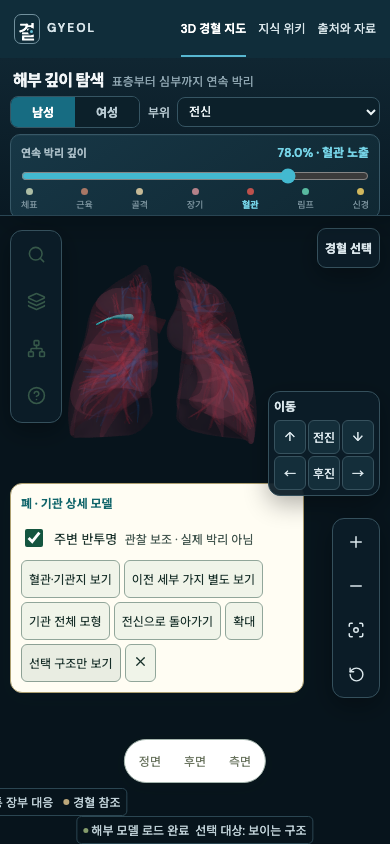
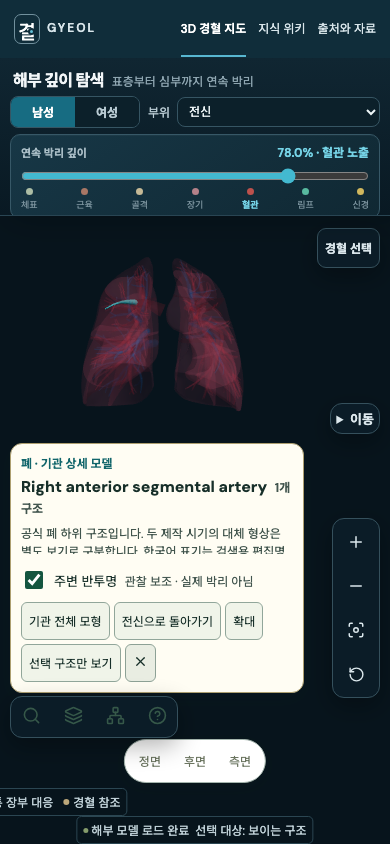
Keep selected lung names and movement controls readable on small screens

diff --git a/src/App.tsx b/src/App.tsx
@@ -636,14 +636,21 @@ function AtlasPage({
   const selectedGroup = state.detail?.id || selectedAnatomy?.group;
   const selectedOrgan = structureGroups.find(group => group.id === selectedGroup && group.sex === state.sex);
   const selectedComposite = compositeGroups.find(group => group.id === selectedGroup && group.sex === state.sex);
+  const selectedLungPart = Boolean(state.sex === "male" && selectedAnatomy && maleLungViews.some(view => view.id === selectedGroup));
   const fullLungDetail = Boolean(state.sex === "male" && state.detail && state.selection?.kind === "bundle"
     && maleLungViews.some(view => view.id === state.detail!.id && view.ids.length === state.selection!.ids.length
       && view.ids.every(id => state.selection!.ids.includes(id))));
+  const lungViewOptions = state.sex === "male" && maleLungViews.some(view => view.id === selectedGroup)
+    ? maleLungViews.filter(view => view.id !== selectedGroup).map(view => <button key={view.id} onClick={() => selectFeatured(view)}>{view.id === "lung" ? "폐실질 함께 보기" : view.id === "lung-internal" ? "혈관·기관지 보기" : "이전 세부 가지 별도 보기"}</button>) : null;
   const fullCompositeDetail = Boolean(selectedComposite && state.detail && state.selection?.kind === "bundle"
     && state.selection.ids.length === selectedComposite.ids.length
     && selectedComposite.ids.every(id => state.selection!.ids.includes(id)));
   const detailParts = selectedOrgan ? structuresForSex(state.sex).filter(item => selectedOrgan.ids.includes(item.id))
     .sort((a,b) => selectedOrgan.ids.indexOf(a.id)-selectedOrgan.ids.indexOf(b.id)) : [];
+  const movementButtons = <div>{([
+    ['move-up', '위로 이동', '↑'], ['move-forward', '앞으로 이동', '전진'], ['move-down', '아래로 이동', '↓'],
+    ['move-left', '왼쪽으로 이동', '←'], ['move-backward', '뒤로 이동', '후진'], ['move-right', '오른쪽으로 이동', '→'],
+  ] as const).map(([kind, label, text]) => <button key={kind} aria-label={label} title={label} onClick={() => camera(kind)}>{text}</button>)}</div>;
   return (
     <main
       className="anatomy-workspace"
@@ -651,6 +658,7 @@ function AtlasPage({
       aria-label="인체 구조 탐색"
       data-panel={panel || "none"}
       data-detail={Boolean(state.detail)}
+      data-lung-part={selectedLungPart}
       data-selection={Boolean(state.selection)}
       onKeyDownCapture={(event) => {
         if (!(event.target instanceof HTMLCanvasElement) || !event.altKey || !["ArrowUp", "ArrowDown"].includes(event.key)) return;
@@ -1152,8 +1160,8 @@ function AtlasPage({
         </div>
       )}
       {state.selection && (
-        <section className="selection-card" data-detail={Boolean(state.detail)} data-selection="true" aria-label="선택 구조 조작">
-          <div>
+        <section className="selection-card" data-detail={Boolean(state.detail)} data-selection="true" data-lung-part={selectedLungPart} aria-label="선택 구조 조작">
+          <div key={selectedLungPart ? selectionKey : "selection-content"}>
             <span className={`selection-kind ${state.selection.kind}`}>
               {state.comparison ? "전통 장부 비교" : state.detail ? `${state.detail.name} · ${selectedComposite ? "구조" : "기관"} 상세 모델` : state.selection.kind === "bundle" ? "구조 묶음" : "선택 구조"}
             </span>
@@ -1175,8 +1183,9 @@ function AtlasPage({
               <p className="selection-description">{selectedComposite.description}</p>
             </details>}
             {state.sex === "male" && maleLungViews.some(view => view.id === selectedGroup) && <details className="anatomy-source-details" data-lung-provenance>
-              <summary>폐 자료·원본 묶음 구분</summary>
+              <summary>{fullLungDetail ? "폐 자료·원본 묶음 구분" : "폐 보기 변경·원본 구분"}</summary>
               <p className="selection-description">BodyParts3D 4.3 공식 원본입니다. 기본 보기는 2014 표기 원본의 폐실질 18조각과 혈관·기관지 267조각입니다. 이전 세부 가지 278조각은 2011–2012 표기 원본으로, 겹치는 대체 형상과 일부 위치 차이가 있어 별도로 표시합니다. 연도는 원본 묶음명 기준입니다. 공식 목록에서 제외된 이전 혈관 2조각은 수록하지 않습니다. 미세 구조 전체나 임상적 위치 검증을 뜻하지 않습니다.</p>
+              {!fullLungDetail && <div className="selection-actions">{lungViewOptions}</div>}
             </details>}
             {state.sex === "female" && selectedOrgan?.id === "brain" && <div data-brain-provenance>
               <p className="selection-description">뇌 묶음: Allen 참조 282개 + Visible Human 시신경교차 1개 · Allen 좌우 선택 연결 교정 · 위치 검증 미완료</p>
@@ -1207,7 +1216,7 @@ function AtlasPage({
               <span>주변 반투명 <small id="selection-context-help">관찰 보조 · 실제 박리 아님</small></span>
             </label>}
             {sourceKey === "female-detail" && state.detail?.id !== "abdomen-ct" && <button aria-label="같은 여성 CT의 주변 기관 보기" onClick={() => selectFeatured(featuredAnatomy.find(item => item.id === "abdomen-ct")!)}>주변 기관 함께 보기</button>}
-            {state.sex === "male" && maleLungViews.some(view => view.id === selectedGroup) && maleLungViews.filter(view => view.id !== selectedGroup).map(view => <button key={view.id} onClick={() => selectFeatured(view)}>{view.id === "lung" ? "폐실질 함께 보기" : view.id === "lung-internal" ? "혈관·기관지 보기" : "이전 세부 가지 별도 보기"}</button>)}
+            {fullLungDetail && lungViewOptions}
             {!fullCompositeDetail && !fullLungDetail && selectedOrgan && !(sourceKey === "female-detail" && selectedOrgan.ids.length === 1 && state.detail) && <button onClick={() => selectFeatured(selectedOrgan)}>{selectedComposite ? `${selectedComposite.name} ${state.detail ? "전체 모형" : "전체 상세 보기"}` : state.detail ? "기관 전체 모형" : "기관 상세 보기"}</button>}
             {state.detail && <button onClick={() => { dispatch({ type: "detail-close" }); requestAnimationFrame(() => camera("fit")); }}>전신으로 돌아가기</button>}
             <button
@@ -1261,13 +1270,11 @@ function AtlasPage({
           경로 아님
         </p>
       )}
-      <div className="movement-pad" aria-label="화면 이동">
-        <span>이동 <small>WASD · Q/E</small></span>
-        <div>{([
-          ['move-up', '위로 이동', '↑'], ['move-forward', '앞으로 이동', '전진'], ['move-down', '아래로 이동', '↓'],
-          ['move-left', '왼쪽으로 이동', '←'], ['move-backward', '뒤로 이동', '후진'], ['move-right', '오른쪽으로 이동', '→'],
-        ] as const).map(([kind, label, text]) => <button key={kind} aria-label={label} title={label} onClick={() => camera(kind)}>{text}</button>)}</div>
-      </div>
+      {selectedLungPart ? <details className="movement-pad" aria-label="화면 이동">
+        <summary>이동 <small>WASD · Q/E</small></summary>{movementButtons}
+      </details> : <div className="movement-pad" aria-label="화면 이동">
+        <span>이동 <small>WASD · Q/E</small></span>{movementButtons}
+      </div>}
       <div className="navigation-hint">WASD 이동 · 휠 확대/축소 · Alt/⌥+휠 박리</div>
       <div className="view-tools">
         <button aria-label="확대" onClick={() => camera("zoomIn")}>

diff --git a/tests/browser/detail-context.spec.ts b/tests/browser/detail-context.spec.ts
@@ -74,6 +74,45 @@ for(const sample of samples)test(`${sample.sex} ${sample.group.id}: restoring de
   await page.getByRole('button',{name:'전체 구조 보기',exact:true}).click();await ready(page);await expect.poll(visible).toEqual(expected);
   await expect.poll(frameError).toBeLessThan(.001);
   await expect(page.getByRole('button',{name:'전신으로 돌아가기',exact:true})).toBeInViewport();
+  if(sample.group.id==='lung'){
+    const title=page.locator('.selection-card > div:first-child > strong');
+    const inspectTitle=()=>title.evaluate(el=>{
+      const r=el.getBoundingClientRect(),clip=el.parentElement!.getBoundingClientRect();
+      const card=el.closest('.selection-card')!.getBoundingClientRect(),pad=document.querySelector('.movement-pad')!.getBoundingClientRect();
+      const tools=document.querySelector('.floating-tools')!.getBoundingClientRect(),point=document.querySelector('.floating-point')!.getBoundingClientRect();
+      const gap=(a:DOMRect,b:DOMRect)=>Math.max(a.top-b.bottom,b.top-a.bottom,a.left-b.right,b.left-a.right);
+      return {top:r.top-clip.top,bottom:clip.bottom-r.bottom,padClearance:gap(card,pad),toolsClearance:gap(card,tools),pointClearance:gap(pad,point)};
+    });
+    for(const width of [390,360]){
+      await page.setViewportSize({width,height:width===390?844:740});
+      await expect.poll(async()=>(await inspectTitle()).top).toBeGreaterThanOrEqual(-.5);
+      await expect.poll(async()=>(await inspectTitle()).bottom).toBeGreaterThanOrEqual(-.5);
+      await expect.poll(async()=>(await inspectTitle()).padClearance).toBeGreaterThan(4);
+      await expect.poll(async()=>(await inspectTitle()).toolsClearance).toBeGreaterThan(0);
+      await expect.poll(async()=>(await inspectTitle()).pointClearance).toBeGreaterThan(0);
+      const movement=page.locator('.movement-pad summary');
+      await movement.focus();await page.keyboard.press('Enter');
+      await expect(page.locator('.movement-pad')).toHaveAttribute('open','');
+      await expect(page.locator('.floating-point')).toBeHidden();
+      await expect(page.getByRole('button',{name:'위로 이동',exact:true})).toBeInViewport();
+      const beforeMove=(await snapshot(page)).camera.position[1];
+      await page.getByRole('button',{name:'위로 이동',exact:true}).click();
+      await expect.poll(async()=>(await snapshot(page)).camera.position[1]).toBeGreaterThan(beforeMove);
+      const contrast=await page.getByRole('button',{name:'위로 이동',exact:true}).evaluate(el=>{
+        const style=getComputedStyle(el),lum=(s:string)=>s.match(/[\d.]+/g)!.slice(0,3).map(Number).map(x=>{x/=255;return x<=.04045?x/12.92:((x+.055)/1.055)**2.4;}).reduce((sum,x,i)=>sum+x*[.2126,.7152,.0722][i],0);
+        const a=lum(style.color),b=lum(style.backgroundColor);return (Math.max(a,b)+.05)/(Math.min(a,b)+.05);
+      });
+      expect(contrast).toBeGreaterThanOrEqual(4.5);
+      await expect.poll(async()=>(await inspectTitle()).padClearance).toBeGreaterThan(4);
+      if(width===360)await page.screenshot({path:'docs/anatomy-alignment/detail-context-male-lung-small-mobile-movement.png'});
+      await movement.click();await expect(page.locator('.floating-point')).toBeVisible();
+      await page.locator('.view-presets').getByRole('button',{name:'정면',exact:true}).click();
+      await expect.poll(async()=>(await projection()).cardClearance).toBeGreaterThan(0);
+      if(width===360)await page.screenshot({path:'docs/anatomy-alignment/detail-context-male-lung-small-mobile.png'});
+    }
+    await page.setViewportSize({width:390,height:844});
+    await expect.poll(async()=>(await projection()).cardClearance).toBeGreaterThan(0);
+  }
   await page.screenshot({path:`docs/anatomy-alignment/detail-context-${sample.sex}-${sample.group.id}-mobile.png`});
   expect(await geometry(page,url,sample.group.ids)).toEqual(shape);
   await page.getByLabel('연속 해부 박리 깊이').fill('50.5');await ready(page);

diff --git a/src/workspace.css b/src/workspace.css
@@ -1306,8 +1306,21 @@ body:has(.anatomy-workspace) .site-footer {
   .anatomy-workspace[data-selection="true"] .selection-actions { flex-shrink:0; }
 }
 .selection-actions { flex-wrap:wrap; }
+.movement-pad>summary { font-size:13px; font-weight:650; cursor:pointer; }
+.movement-pad[open]>summary { margin-bottom:5px; }
+.anatomy-workspace .movement-pad small { color:inherit; }
+.anatomy-workspace .movement-pad button:hover,
+.anatomy-workspace .movement-pad button:focus-visible { color:var(--ink); background:var(--surface-subtle); }
 @media(max-width:700px){
   .anatomy-workspace .selection-card { left:10px; width:calc(100% - 84px); max-height:210px; overflow:hidden; display:grid; grid-template-rows:minmax(0,1fr) auto; }
   .anatomy-workspace .selection-card>div:first-child { min-height:0; overflow:auto; }
   .organ-detail-parts>div { grid-template-columns:1fr; max-height:130px; }
+  /* Reserve a readable selected name above fixed actions; cap the card at
+     45% of the scene remaining below the mobile header and scope controls. */
+  .anatomy-workspace .selection-card[data-lung-part="true"] { max-height:min(250px,calc(45dvh - 97.2px)); }
+  .anatomy-workspace[data-lung-part="true"] .movement-pad { bottom:calc(min(250px,calc(45dvh - 97.2px)) + 160px); }
+  .anatomy-workspace[data-lung-part="true"] .floating-tools { top:auto; bottom:106px; left:10px; padding:0; gap:2px; flex-direction:row; }
+  .anatomy-workspace[data-lung-part="true"] .floating-tools button { width:40px; height:40px; }
+  .anatomy-workspace[data-lung-part="true"] .floating-tools .tool-name { left:0; bottom:46px; top:auto; }
+  .anatomy-workspace[data-lung-part="true"]:has(.movement-pad[open]) .floating-point { visibility:hidden; }
 }

diff --git a/tests/browser/lung-source.spec.ts b/tests/browser/lung-source.spec.ts
@@ -35,6 +35,8 @@ for(const mobile of [false,true])test(`lung source views remain separate and sel
   await page.locator('.organ-detail-parts button').nth(lung.ids.indexOf('BP4_FJ6595')).click();await check(['BP4_FJ6595']);
   await page.getByRole('button',{name:'전체 구조 보기',exact:true}).click();await check(lung.ids);
   expect((await snapshot(page)).selection.ids).toEqual(['BP4_FJ6595']);
+  await page.locator('[data-lung-provenance] summary').click();
+  await page.locator('[data-lung-provenance]').getByRole('button',{name:'혈관·기관지 보기',exact:true}).click();await check(internal);
   await page.getByLabel('연속 해부 박리 깊이').fill('50.5');await ready(page);
   expect((await snapshot(page)).detail).toBe(null);expect((await visible()).some(id=>id.startsWith('BP4_'))).toBe(false);
   await page.locator('.explore-sidebar').getByRole('button',{name:'여성',exact:true}).click();await ready(page);

diff --git a/docs/anatomy-alignment/LUNG_DETAIL_REPLACEMENT.md b/docs/anatomy-alignment/LUNG_DETAIL_REPLACEMENT.md
@@ -52,3 +52,19 @@
 `isLegacyLung`를 타입 가드로 선언한 초기 구현은 false 분기에서 이미 string[]인 `s.selection.ids`가 never로 좁혀져 타입 검사를 실패했습니다. boolean 반환으로 고쳤으며 런타임 판정은 같습니다. 이전 원본 감사의 macOS 절대경로 CI 실패는 별도 커밋876e827/실행36322517128에서 수정·배포 통과했습니다. 이들 실패를 통과한 검사로 바꾸어 기록하지 않습니다.
 
 agy 대화 `3475216b-9a03-4233-b79f-1cae48788850`는 지정 코드7파일과 후속 변경3영역의 제한 정적 검토입니다. 첫 검토의 ‘완전 격리/100% 일치’는 실제 실행 증거가 아니며 후속에서 정적 검토의 범위를 다시 명시했습니다. 타입 오류는 주 작업자의 실제 빌드가 발견했습니다. agy가 임상 정확도·브라우저·원본 바이너리 전수를 독립 실행 검증한 것으로 주장하지 않습니다.
+
+## 개별 선택 모바일 후속 교정
+
+전체 묶음 화면과 달리 개별 혈관을 선택하면 고정 버튼들이 이름 영역을 밀어 가리는 실패를 확인했습니다. 개별 선택의 대체 원본 보기 버튼을 ‘폐 보기 변경·원본 구분’ 펼침 영역으로 옮겼고, 단독/전체 복원 조작은 고정 영역에 남겼습니다. 카드 높이는 장면의45% 이내에서 조정했습니다.
+
+첫 이름 경계 검사가 통과한 뒤에도360×740 실제 캡처에서는 왼쪽 도구 막대가 이름을 덮고 이동 도구가 경혈 버튼과 겹쳤습니다. 통과한 기하 검사만으로 가독성을 승인하지 않았습니다. 폐 개별 선택에 한해 모바일 도구를 카드 아래 가로줄로 배치하고 이동6방향을 펼침 도구로 바꿨습니다. 이동 도구를 펼친 동안만 경혈 선택 버튼을 숨기며 닫으면 복원합니다. 다른 선택 상태의 이동 도구는 기존 방식을 유지합니다.
+
+후속 검사는390×844·360×740에서 이름의 상하 잘림, 카드/이동/도구 막대와 이동/경혈 버튼 간격, Enter 펼치기·클릭 닫기·실제 카메라 이동을 확인합니다. 이동 버튼의 밝은 호버 배경에 밝은 화살표가 남는 문제도 직접 캡처에서 발견해 공유 색상 토큰으로 고쳤습니다. 이 화면 교정은 해부 원본·형상·수록이나 공통 보기 상태 전이를 바꾸지 않습니다.
+
+- [390px 개별 선택](detail-context-male-lung-mobile.png), [360px 개별 선택](detail-context-male-lung-small-mobile.png), [360px 이동 도구](detail-context-male-lung-small-mobile-movement.png).
+- 후속 Node176/176, 브라우저8/8(상세 문맥4·폐 원본3·이동1) 통과. 마지막 호버 대비 변경은 별도 집중 재검사로 구분합니다.
+- agy의 추가 정적 검토는 대체 보기 버튼의 중복 렌더링 분기에 한정됩니다. 이후 카드 높이·도구 배치·호버 대비를 agy가 실제 화면으로 검증했다고 주장하지 않습니다.
+
+배포용 후속 검사는 긴 세부 목록을 스크롤한 뒤 선택하는 경로에서 이름 상단이193px 숨은 실패를 추가 검출했습니다. 새 폐 개별 선택에는 내용 영역을 새로 만들어 이전 목록의 스크롤 위치를 물려받지 않도록 교정했습니다. 같은 선택의 카메라 조작/전체 복원에서는 내용 영역을 유지합니다. 자동 경계 검사와 실제 화면 검사를 모두 통과해야 한다는 기준을 유지합니다.
+
+최종 호버 대비 집중1/1, 스크롤 교정 후 폐 관련4/4, 타입/프로덕션 빌드와 [배포용 재검사](lung-production-check.json)가 통과했습니다. 후자는 원본 파일 SHA·세 가지 전체 보기·지연 다운로드에 더해390/360px 개별 선택의 이름 경계·도구 간격·키보드 펼침/클릭 닫기를 확인합니다. 실제 폐 연결·여성 정합·전신201단계 기하 검사를 새로 수행한 것은 아닙니다.
